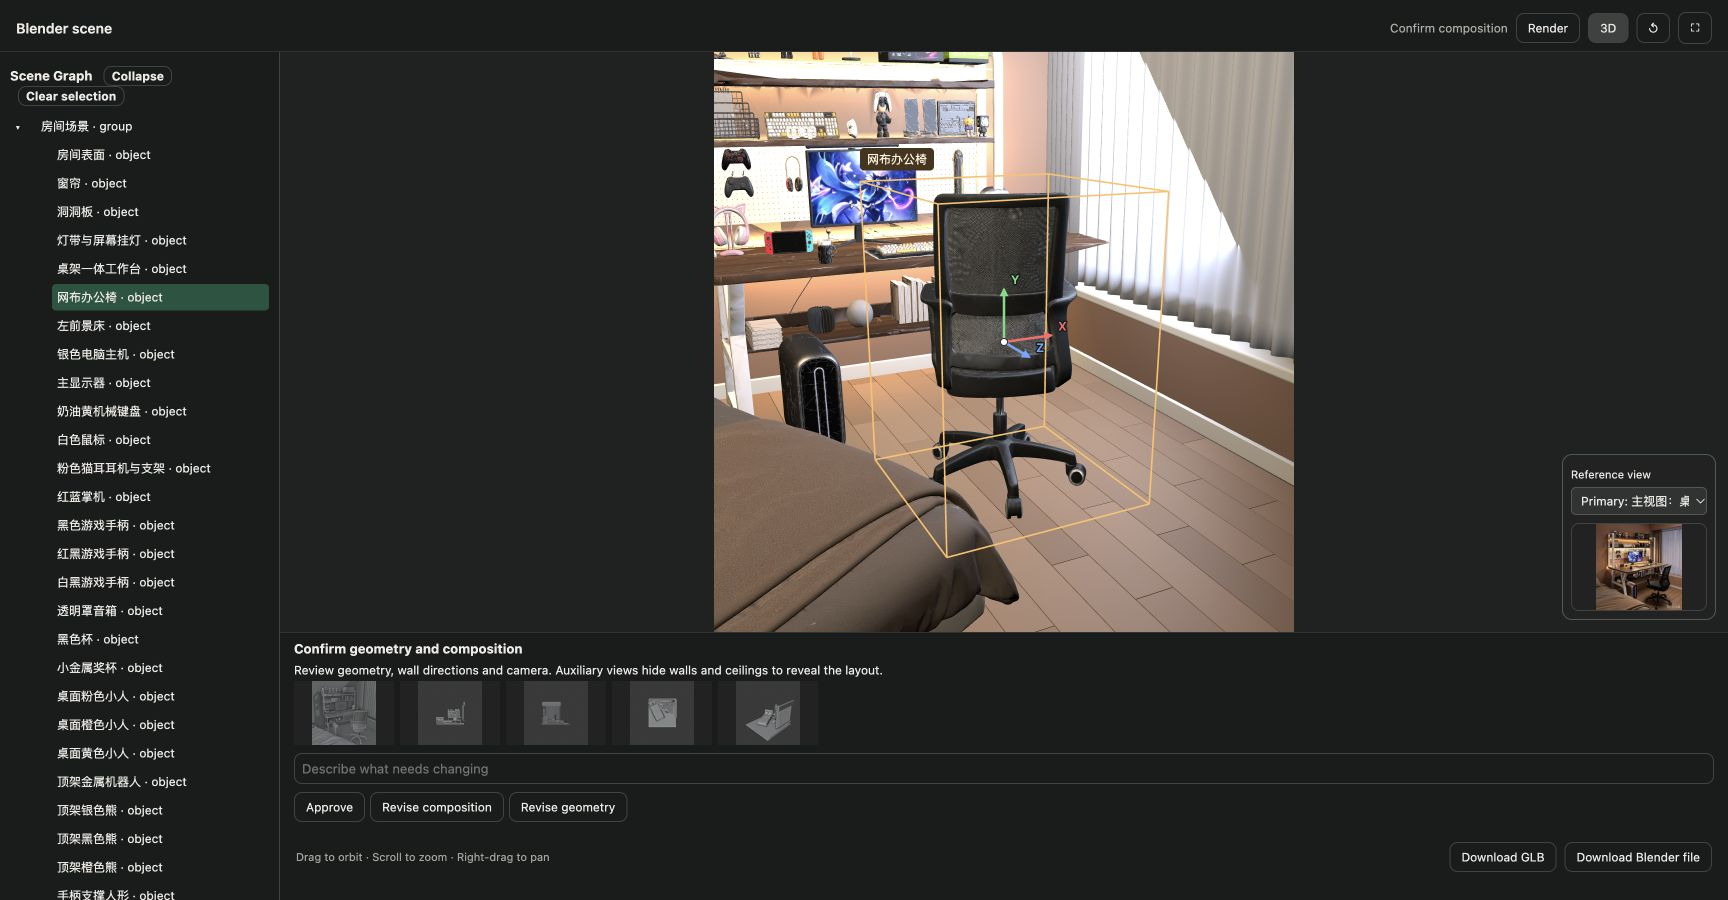
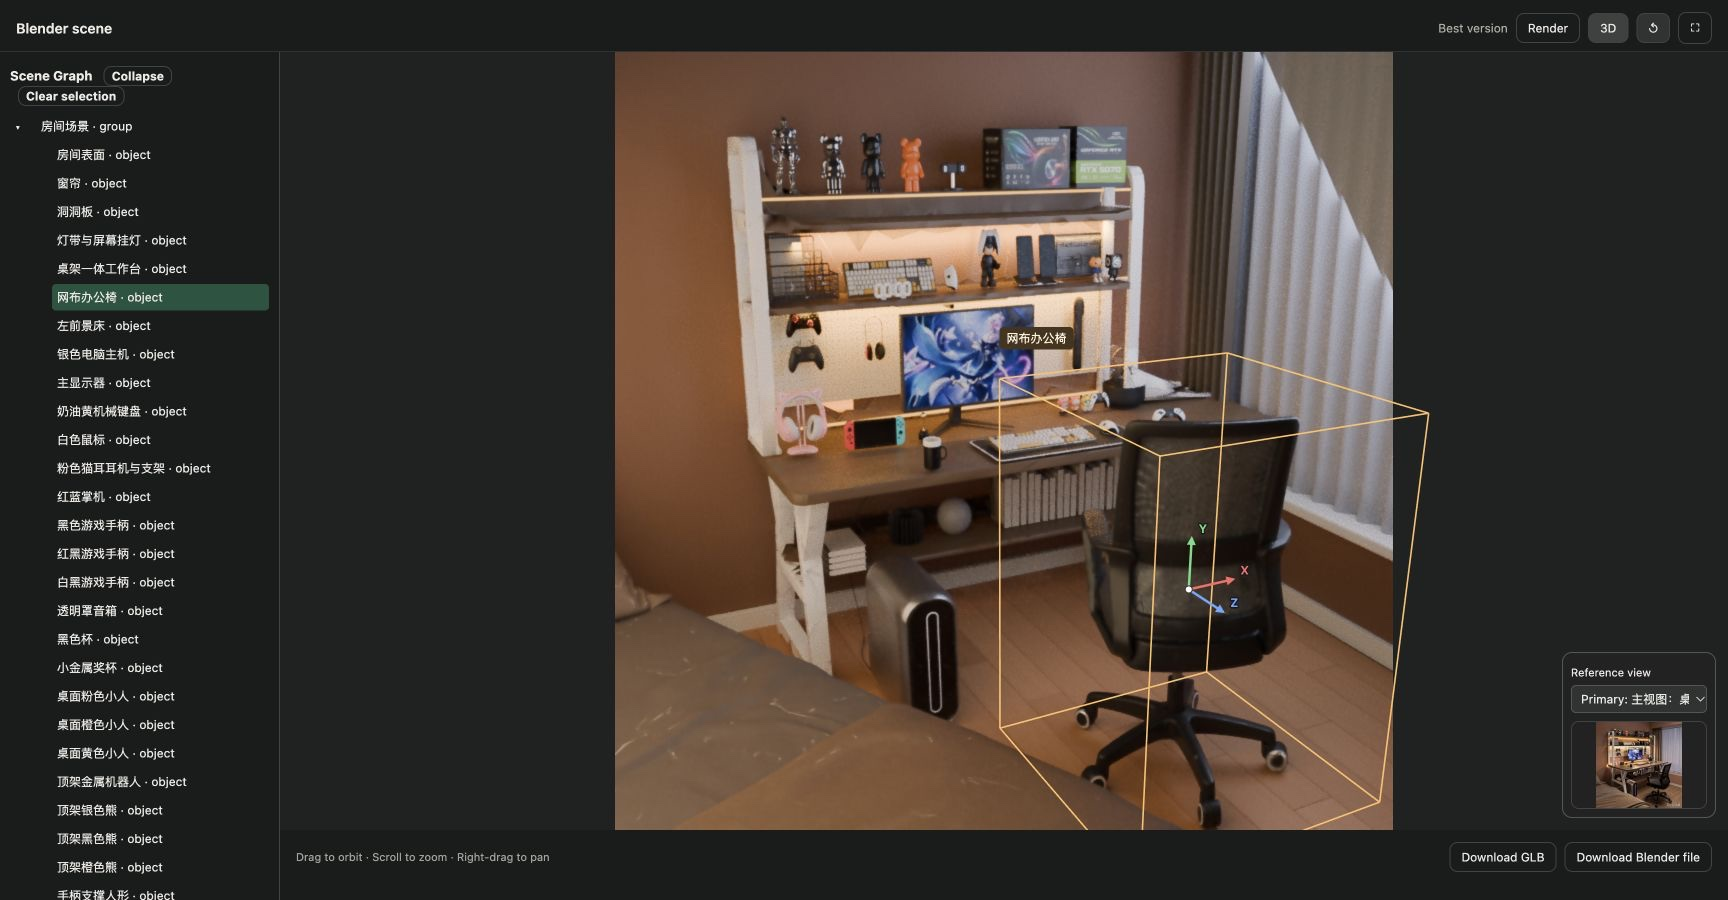
docs: refresh showcase after lighting calibration

diff --git a/README.md b/README.md
@@ -6,9 +6,10 @@ render and interactive Three.js preview with a selectable scene tree.
 ## Showcase: gamer bedroom from multiple views
 
 This reconstruction uses three reference views in Blender 5.1.1. The images
-below show the current composition checkpoint, pending user approval.
+below show iteration 15, after composition approval and material and lighting
+calibration against the primary reference.
 
-| Reference room | Blender composition checkpoint |
+| Reference room | Refined Blender render |
 | --- | --- |
 | ![Reference image of a gamer bedroom](docs/gameroom-reference.webp) | ![Blender reconstruction with a lit desk, display shelves, mesh chair, and bed](docs/gameroom-showcase.webp) |
 
@@ -18,17 +19,20 @@ and the other views for equipment details and spatial layout.
 
 Standalone furniture, equipment, and accessories use externally generated GLB
 assets assembled in Blender, with procedural room surfaces and fittings. The
-monitor uses artwork extracted from the supplied screen image. The current
-checkpoint is iteration 8; material and lighting refinement is still pending.
-It does not yet establish a 1:1 reconstruction. Scene files remain local artifacts.
+monitor uses artwork extracted from the supplied screen image. Golden shelf
+lighting, cool gray window fill, wood surfaces, and the transparent speaker dome
+were refined while preserving the approved geometry and camera. Local wall
+brightness, curtain shadows, shelf shapes, and small generated details still
+differ from the reference; this is a best-effort reconstruction. Scene files
+remain local artifacts.
 
 ![Chrome Three.js preview with the chair selected in the scene tree, an orange 3D bounding box, and XYZ direction arrows](docs/gameroom-viewer.jpg)
 
-The Chrome screenshot shows the bundled viewer in a local MCP Apps host. Selecting
-the chair in the Scene Graph focuses it and displays its bounds; the selection
-stays aligned while orbiting. The review panel retains the five neutral views
-and composition decision controls. The browser host used for this check is a
-local session helper; it is not a packaged standalone preview server.
+The Chrome screenshot shows the updated GLB in the bundled viewer through a local
+MCP Apps host. Chair selection, its bounding box and XYZ arrows, and camera reset
+were checked after export. The preview uses the Blender display transform and
+progressive path tracing. The browser host used for this check is a local session
+helper; it is not a packaged standalone preview server.
 
 ## What's in the plugin
 
